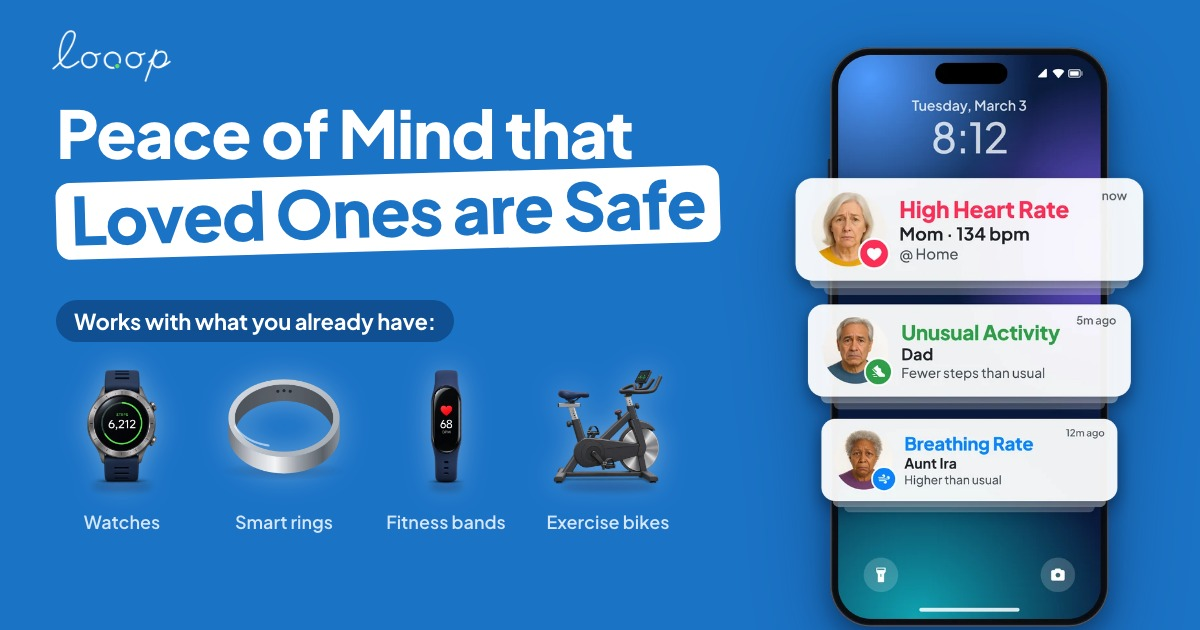
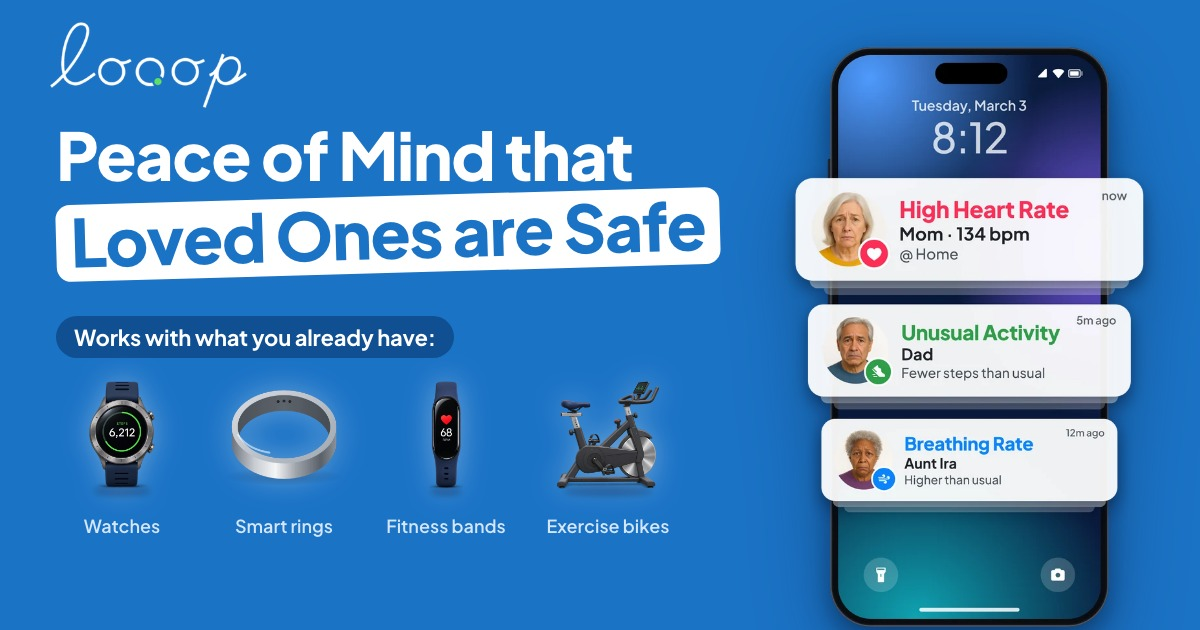
PRLog photo: larger Looop wordmark

diff --git a/CHANGELOG.md b/CHANGELOG.md
@@ -6,7 +6,7 @@ Changes to thelooopapp.com, newest first. This file is not published (see `_conf
 
 ### Changed
 - Hidden Nov. 12 release (`press/one-daily-answer.html` and its source), swept for AI-writing tells: shorter subhead ("Health and activity alerts and a daily summary, plus severe weather, nearby crime, and unusual spending. It works with the watch, ring, or band they already have, and it's on the App Store today."); "Nothing new to buy" heading is now "Works with what they already have," so the next sentence no longer repeats it; the privacy section no longer repeats its heading or stacks three claims; "Peace of mind" no longer echoes the opening's "worth a call" and says Loved Ones get fewer "just checking" calls.
-- `images/press/looop-health-alerts.jpg`: white Looop wordmark added above "Peace of Mind that." 1200 x 630 JPG, 126 KB.
+- `images/press/looop-health-alerts.jpg`: large white Looop wordmark added above "Peace of Mind that." 1200 x 630 JPG, 127 KB.
 
 ## 2026-11-12 10:45 CT
 
